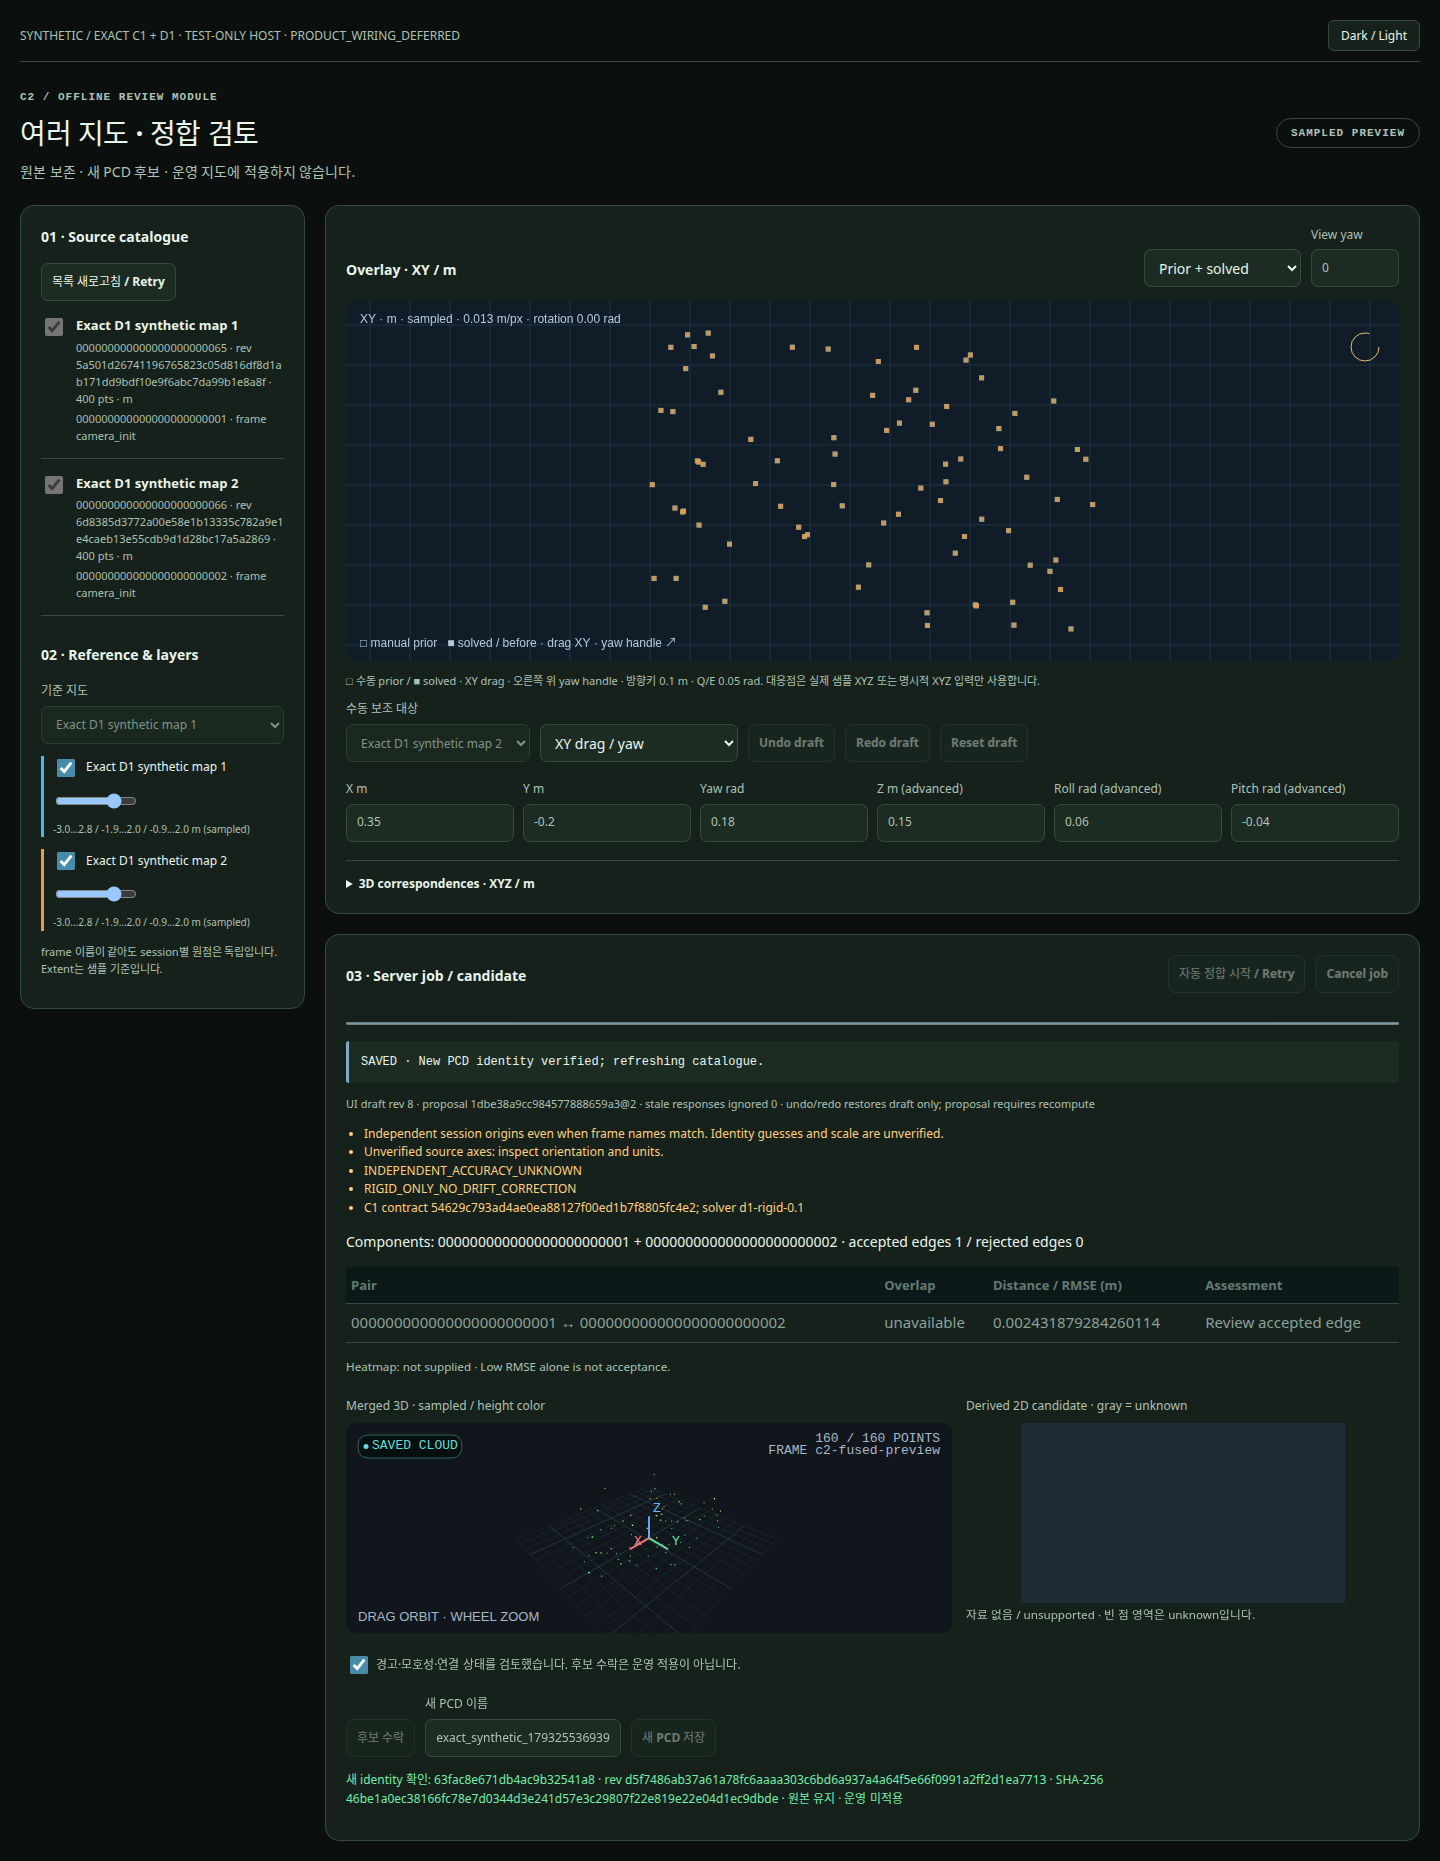
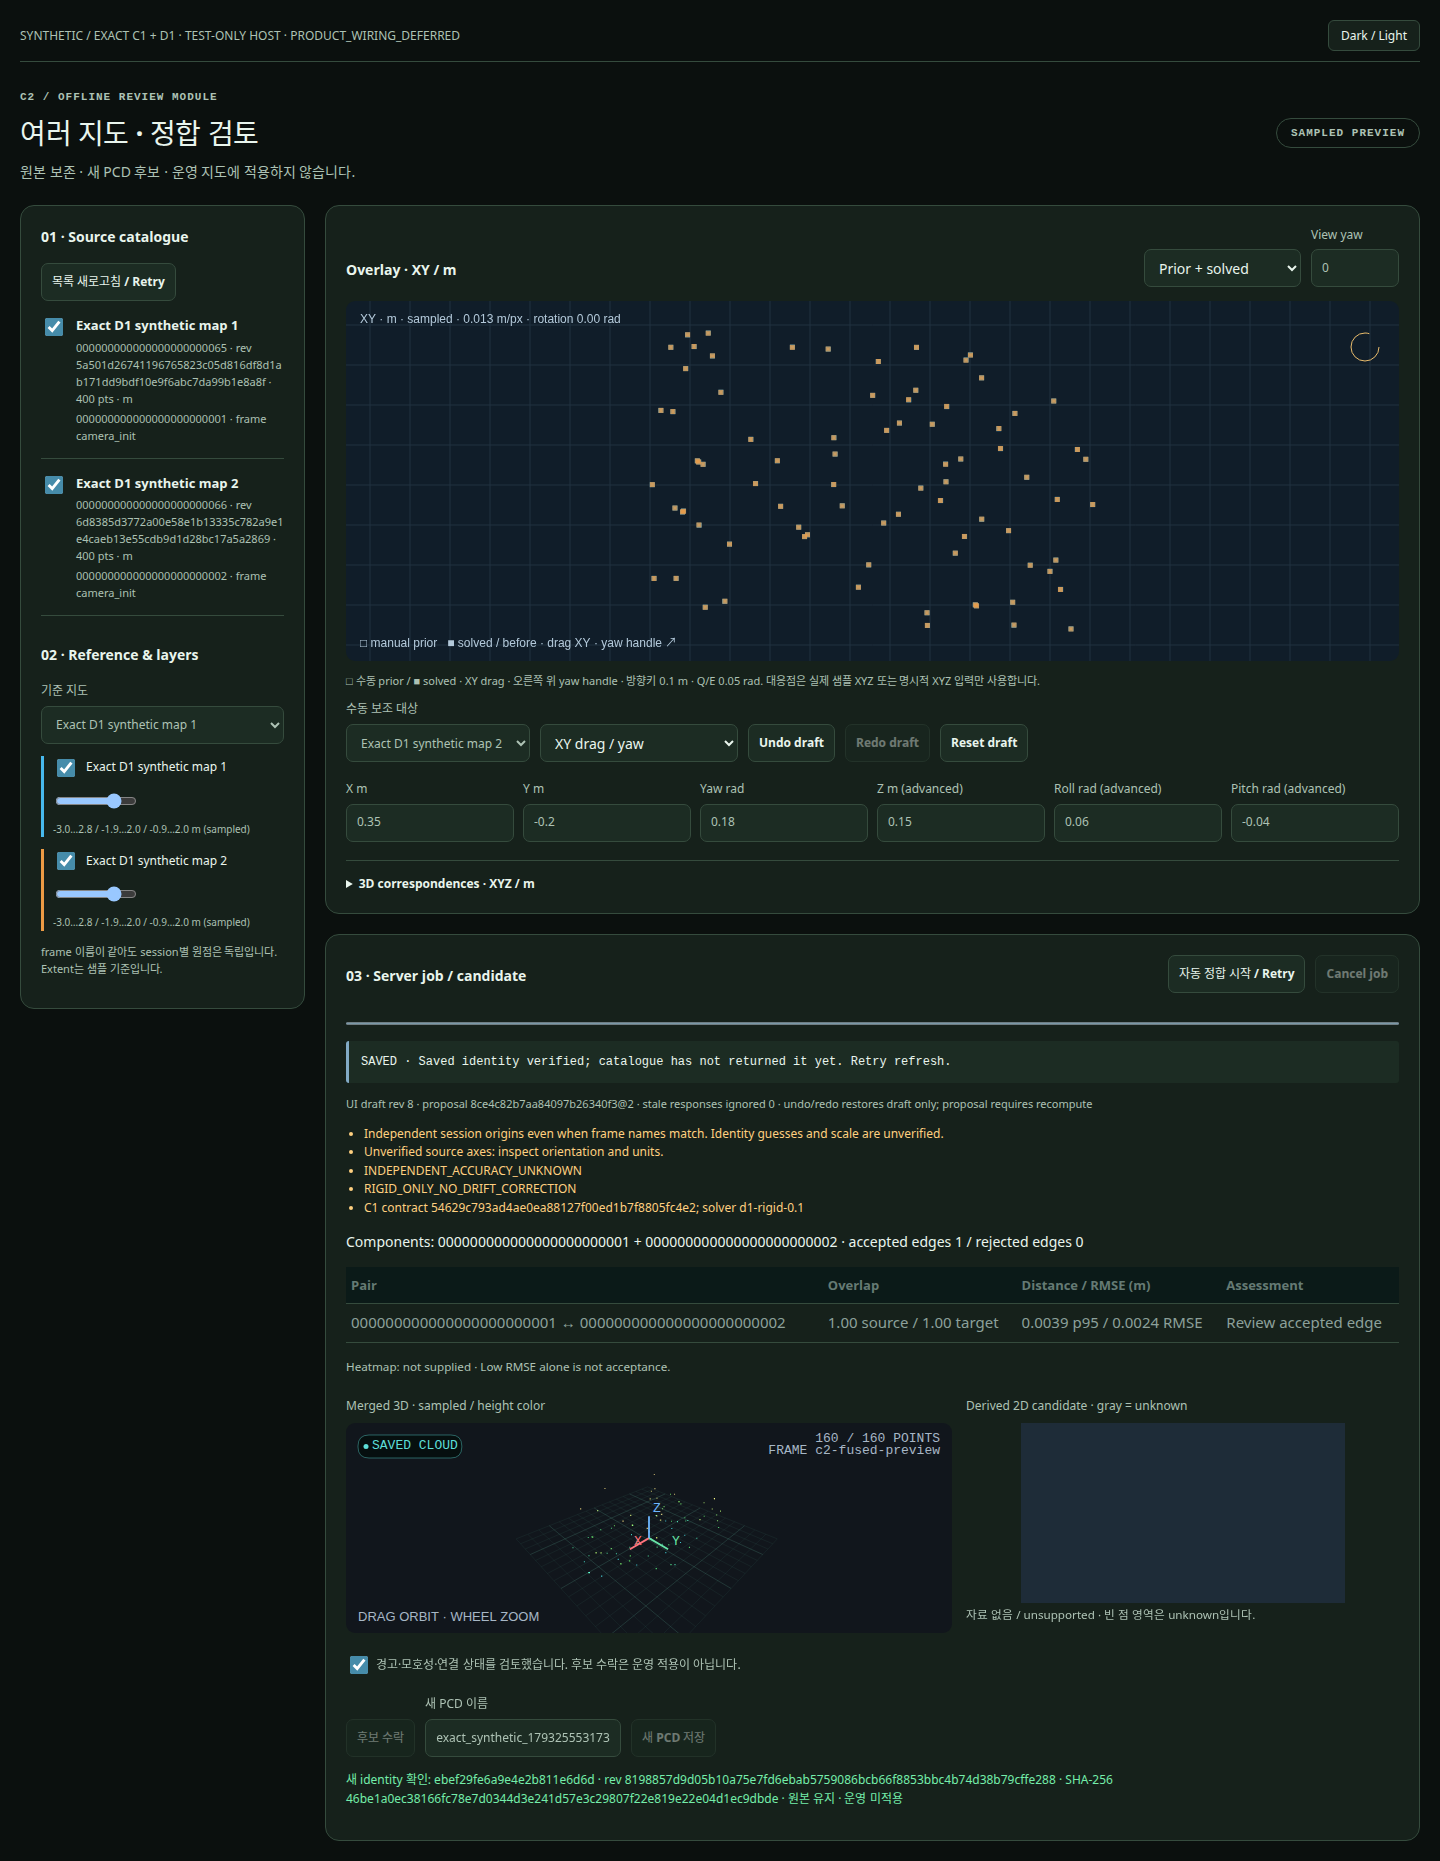
Preserve D1 overlap diagnostics and completed export evidence

diff --git a/robot_dashboard/static/features/multimap_fusion/index.js b/robot_dashboard/static/features/multimap_fusion/index.js
@@ -69,7 +69,7 @@ export function mount(host,{catalogue,jobs,renderer,onReview=()=>{},confirmDisca
     slot('diagnostics').replaceChildren();
     if(s.proposal){slot('diagnostics').append(el('p',`Components: ${s.proposal.connected_components.map(c=>c.join(' + ')).join(' | ')} · accepted edges ${s.proposal.accepted_edges.length} / rejected edges ${s.proposal.rejected_edges.length}`));
       const table=el('table');const header=el('tr');['Pair','Overlap','Distance / RMSE (m)','Assessment'].forEach(v=>header.append(el('th',v)));table.append(header);
-      for(const row of (metrics?.pairwise||[]).slice(0,64)){const tr=el('tr');[row.pair?.join(' ↔ '),row.overlap, row.rmse_m,row.warning||'Requires review'].forEach(v=>tr.append(el('td',String(v??'unavailable'))));table.append(tr);}slot('diagnostics').append(table,el('small','Heatmap: '+(s.proposal.heatmap?.length?'provider residual samples':'not supplied')+' · Low RMSE alone is not acceptance.'));}
+      for(const row of (metrics?.pairwise||[]).slice(0,64)){const tr=el('tr');[row.pair?.join(' ↔ '),row.overlap, row.distance_p95_m!=null?`${Number(row.distance_p95_m).toFixed(4)} p95 / ${Number(row.rmse_m).toFixed(4)} RMSE`:row.rmse_m,row.warning||'Requires review'].forEach(v=>tr.append(el('td',String(v??'unavailable'))));table.append(tr);}slot('diagnostics').append(table,el('small','Heatmap: '+(s.proposal.heatmap?.length?'provider residual samples':'not supplied')+' · Low RMSE alone is not acceptance.'));}
     slot('pairs').replaceChildren(...s.draft.correspondences.map((p,i)=>el('li',`${i+1}. ${p.source_id}: [${p.source_xyz}] ↔ [${p.anchor_xyz}] (${p.provenance})`)));
     if(s.draft.correspondences.length){try{validateCorrespondences(s.draft.correspondences).forEach(w=>slot('pairs').append(el('li',w)));}catch(e){slot('pairs').append(el('li',e.message));}}
     slot('saved').textContent=savedMap?`새 identity 확인: ${savedMap.id} · rev ${savedMap.revision} · SHA-256 ${savedMap.sha256} · 원본 유지 · 운영 미적용`:'';

diff --git a/robot_dashboard/static/features/multimap_fusion/c1_contract.js b/robot_dashboard/static/features/multimap_fusion/c1_contract.js
@@ -28,5 +28,5 @@ export function fromC1Proposal(wire,ui,{job_revision=1}={}) {
   return {schema:SCHEMA,draft_revision:ui.draft_revision,job_revision,job_id:wire.job_id,state,proposal_id:wire.job_id,proposal_revision:wire.proposal_revision,
     input_pins:ui.sources.map(pin),transforms,accepted_edges:edges.filter(e=>e.accepted===true),rejected_edges:edges.filter(e=>e.accepted!==true),
     connected_components:(wire.connected_components||[]).map(c=>c.map(k=>{if(!keys[k])throw new Error('Unknown component source.');return keys[k];})),
-    metrics:{pairwise:wire.quality?.pairwise||edges.map(e=>({pair:[keys[e.target]||e.target,keys[e.source]||e.source],overlap:e.metrics?.overlap_ratio??e.metrics?.overlap,rmse_m:e.metrics?.rmse_m,warning:e.accepted?'Review accepted edge':'Rejected / ambiguous edge'}))},warnings:[...(wire.warnings||[]),...(wire.ambiguous_candidates?.length?['C1 ambiguous candidates require review.']:[]),`C1 contract ${C1_CONTRACT_SHA}; solver ${wire.solver_version}`],reason:wire.state==='SOLVED_CANDIDATE'?undefined:`C1 terminal state ${wire.state}; inspect warnings.`};
+    metrics:{pairwise:wire.quality?.pairwise||edges.map(e=>({pair:[keys[e.target]||e.target,keys[e.source]||e.source],overlap:e.metrics?.overlap_ratio??e.metrics?.overlap??(e.metrics?.overlap_source!=null&&e.metrics?.overlap_target!=null?`${e.metrics.overlap_source.toFixed(2)} source / ${e.metrics.overlap_target.toFixed(2)} target`:undefined),rmse_m:e.metrics?.rmse_m,distance_p95_m:e.metrics?.distance_p95_m,warning:e.accepted?'Review accepted edge':'Rejected / ambiguous edge'}))},warnings:[...(wire.warnings||[]),...(wire.ambiguous_candidates?.length?['C1 ambiguous candidates require review.']:[]),`C1 contract ${C1_CONTRACT_SHA}; solver ${wire.solver_version}`],reason:wire.state==='SOLVED_CANDIDATE'?undefined:`C1 terminal state ${wire.state}; inspect warnings.`};
 }
